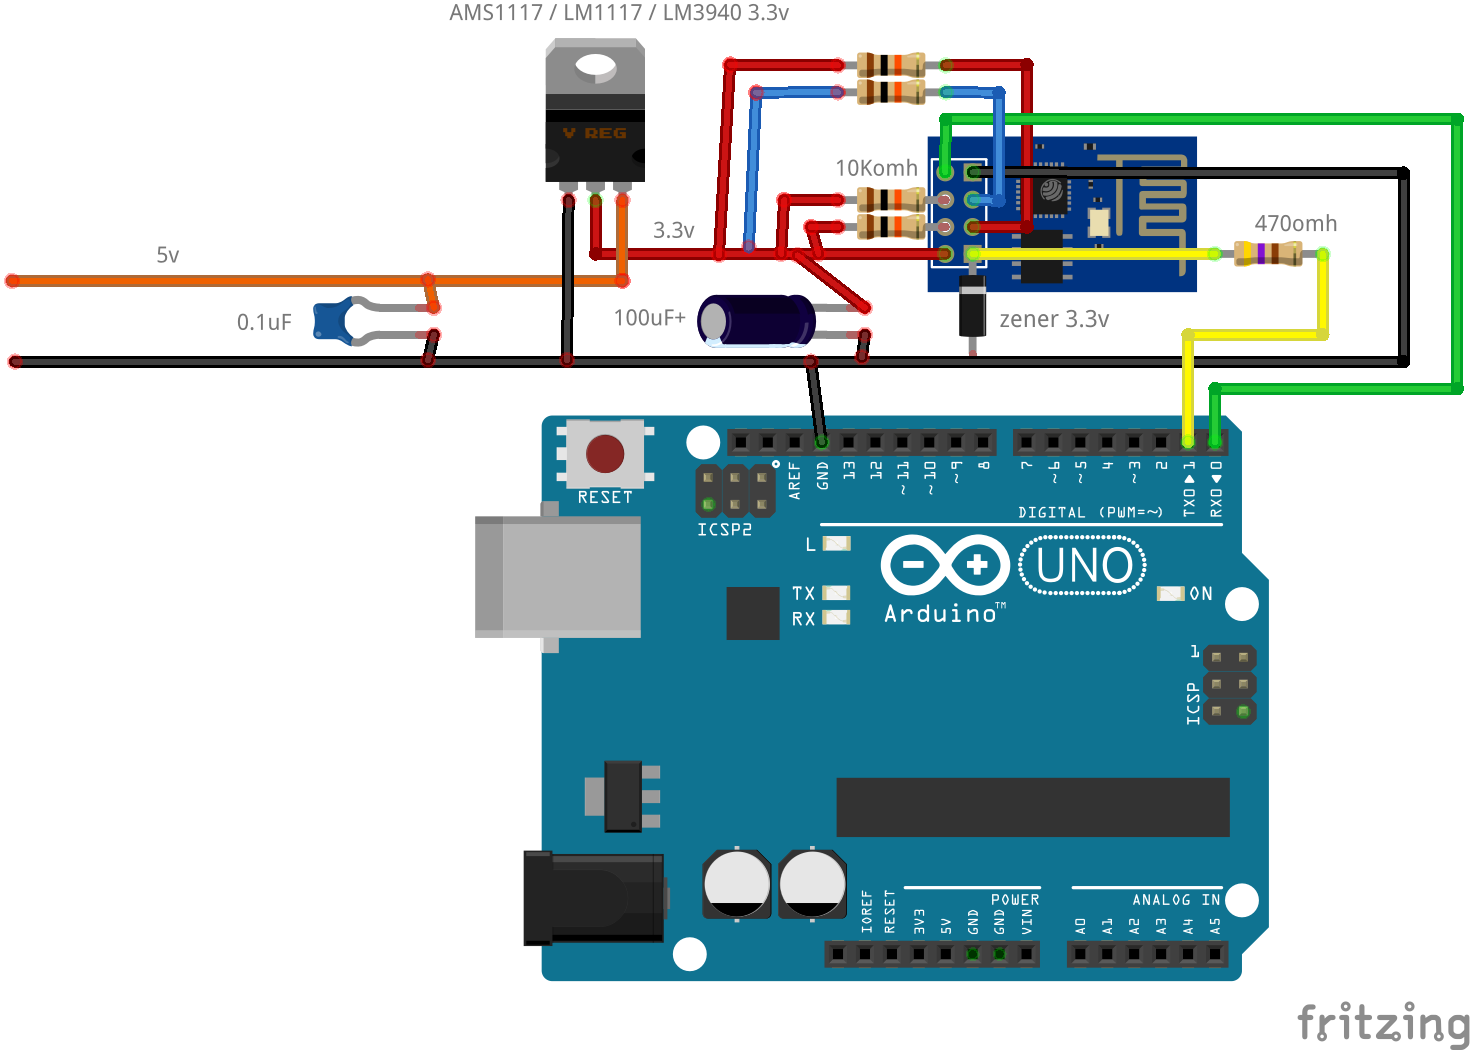
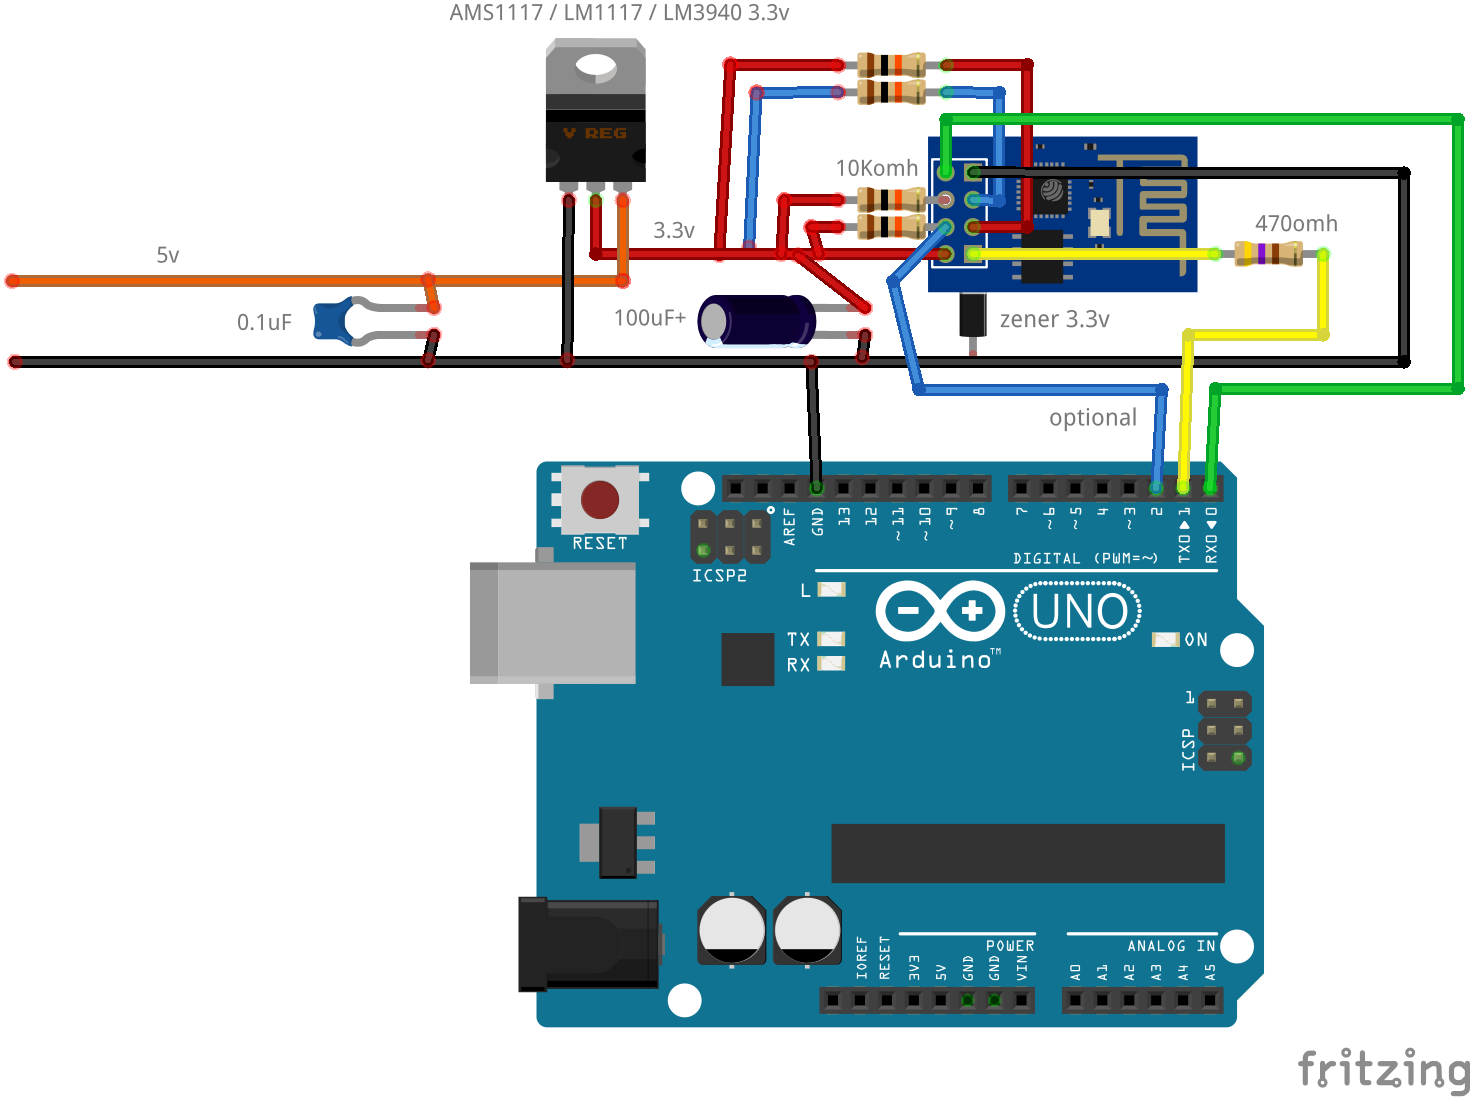
Added auto reset esp8266 on lock up Fixed a problem in mqttPublish and mqttSubscribe

Changed region(s): [[0.0, 0.0, 1.0, 0.9448], [0.9184, 0.9752, 1.0, 1.0], [0.3061, 0.0, 0.3367, 0.0305]]

diff --git a/README.md b/README.md
@@ -12,8 +12,9 @@
 - Authentication with username and password
 - Last will and testament (in topic [mqtt id]/status)
 - Auto reconnect on wifi drop or mqtt broker drop!
-- VERY easy to use, low memory footprint
-- (TODO) SSL connection
+- Auto reset esp8266 on lock up!
+- VERY easy to use and reliable, low memory footprint
+- (TODO) SSL connection (can't do it for now due to memory constraint of nodemcu firmware)
 
 # **USAGE**
 
